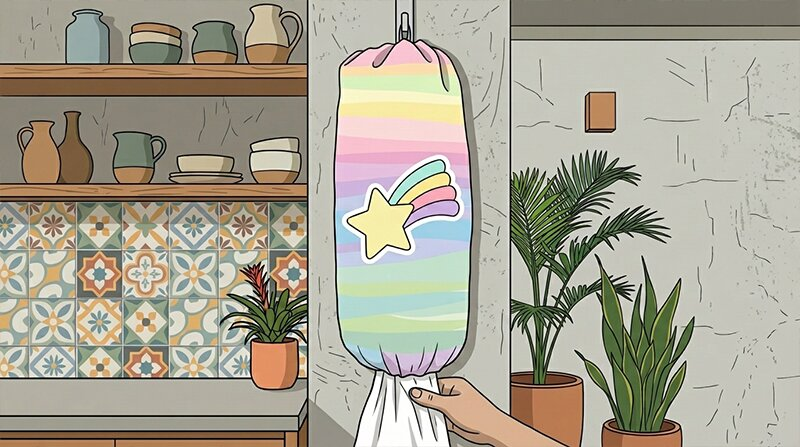
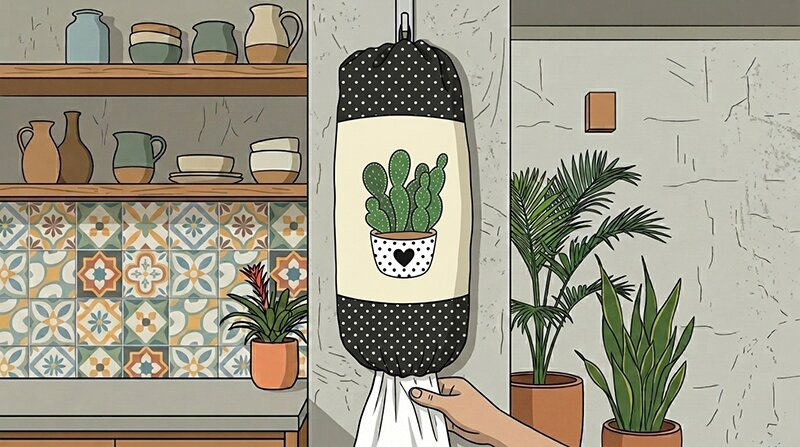
implementação da morte súbita

diff --git a/ui.js b/ui.js
@@ -29,6 +29,7 @@ class UI {
         this.humanVal = document.getElementById('human-val');
         this.botVal = document.getElementById('bot-val');
         this.deckSelect = document.getElementById('deck-select');
+        this.suddenDeathToggle = document.getElementById('sudden-death');
 
         // Join
         this.joinName = document.getElementById('join-name');
@@ -58,6 +59,8 @@ class UI {
         this.turnOverlay = document.getElementById('turn-overlay');
         this.turnOverlayText = document.getElementById('turn-overlay-text');
         this.previousTurnIndex = -1;
+        this.suddenDeathNotified = false;
+        this.showingSuddenDeath = false;
 
         this.processingRound = false;
         this.animatingCard = false;
@@ -131,7 +134,8 @@ class UI {
                 hostName: this.playerName.value.trim() || 'Você',
                 humans: h,
                 bots: b,
-                deckKey: this.deckSelect.value
+                deckKey: this.deckSelect.value,
+                suddenDeath: this.suddenDeathToggle.checked
             };
             
             if (h <= 1) {
@@ -217,6 +221,8 @@ class UI {
     showScreen(screenObj) {
         if (screenObj === this.gameScreen && this.gameScreen.classList.contains('hide')) {
             this.previousTurnIndex = -1;
+            this.suddenDeathNotified = false;
+            this.showingSuddenDeath = false;
         }
         [this.titleScreen, this.setupScreen, this.lobbyScreen, this.joinScreen, this.gameScreen, this.endScreen].forEach(s => {
             s.classList.remove('active');
@@ -331,22 +337,48 @@ class UI {
             this.currentPlayerName.textContent = p.name;
         }
 
-        if (this.previousTurnIndex !== playerIndex) {
-            this.previousTurnIndex = playerIndex;
+        let delayTurnOverlay = 0;
+        const alivePlayers = this.game.players.filter(pl => pl.deck && pl.deck.length > 0).length;
+        
+        if (this.game.suddenDeath && this.game.players.length >= 3 && alivePlayers === 2 && !this.suddenDeathNotified) {
+            this.suddenDeathNotified = true;
+            this.showingSuddenDeath = true;
             
             this.turnOverlay.classList.remove('show');
             void this.turnOverlay.offsetWidth;
             
-            if (playerIndex === myId) {
-                this.turnOverlayText.textContent = "Sua vez de jogar!";
-                this.turnOverlayText.style.color = "#4caf50";
-                this.turnOverlayText.style.textShadow = "0 0 20px #4caf50, 0 0 40px #000";
-            } else {
-                this.turnOverlayText.textContent = `${p.name} está jogando...`;
-                this.turnOverlayText.style.color = "#ff5252";
-                this.turnOverlayText.style.textShadow = "0 0 20px #ff5252, 0 0 40px #000";
-            }
+            this.turnOverlayText.textContent = "MORTE SÚBITA!";
+            this.turnOverlayText.style.color = "var(--super-trunfo-color)";
+            this.turnOverlayText.style.textShadow = "0 0 20px var(--super-trunfo-color), 0 0 40px #000";
             this.turnOverlay.classList.add('show');
+            
+            delayTurnOverlay = 2000;
+        }
+
+        if (this.previousTurnIndex !== playerIndex || delayTurnOverlay > 0) {
+            this.previousTurnIndex = playerIndex;
+            
+            setTimeout(() => {
+                this.showingSuddenDeath = false;
+                
+                this.turnOverlay.classList.remove('show');
+                void this.turnOverlay.offsetWidth;
+                
+                if (playerIndex === myId) {
+                    this.turnOverlayText.textContent = "Sua vez de jogar!";
+                    this.turnOverlayText.style.color = "#4caf50";
+                    this.turnOverlayText.style.textShadow = "0 0 20px #4caf50, 0 0 40px #000";
+                } else {
+                    this.turnOverlayText.textContent = `${p.name} está jogando...`;
+                    this.turnOverlayText.style.color = "#ff5252";
+                    this.turnOverlayText.style.textShadow = "0 0 20px #ff5252, 0 0 40px #000";
+                }
+                this.turnOverlay.classList.add('show');
+                
+                if (delayTurnOverlay > 0) {
+                    this.updateGameState();
+                }
+            }, delayTurnOverlay);
         }
 
         this.updateGameState();
@@ -372,7 +404,7 @@ class UI {
         if (!this.animatingCard) {
             this.p1CardContainer.innerHTML = '';
             if (me && me.deck && me.deck.length > 0) {
-                const isMyTurn = (this.game.currentPlayerIndex === myId && !me.isBot && this.game.turnActive);
+                const isMyTurn = (this.game.currentPlayerIndex === myId && !me.isBot && this.game.turnActive && !this.showingSuddenDeath);
                 const cardEl = this.createCardElement(me.deck[0], isMyTurn);
                 if (!isMyTurn) {
                     cardEl.classList.add('inactive-card');
@@ -492,7 +524,7 @@ class UI {
             attrs.forEach(attr => {
                 attr.addEventListener('click', (e) => {
                     const myId = this.game.isMultiplayer ? Network.playerId : 0;
-                    if (this.game.currentPlayerIndex !== myId || !this.game.isRunning || this.processingRound || !this.game.turnActive) return;
+                    if (this.game.currentPlayerIndex !== myId || !this.game.isRunning || this.processingRound || !this.game.turnActive || this.showingSuddenDeath) return;
 
                     this.processingRound = true;
                     const clickedEl = e.currentTarget;

diff --git a/game.js b/game.js
@@ -26,7 +26,8 @@ class Game {
         this.init(config.humans + config.bots, config.deckKey, {
             humans: config.humans,
             bots: config.bots,
-            names: [config.hostName]
+            names: [config.hostName],
+            suddenDeath: config.suddenDeath
         });
     }
 
@@ -45,7 +46,8 @@ class Game {
             this.init(config.totalPlayers, config.deckKey, {
                 humans: config.humans,
                 bots: config.bots,
-                names: names
+                names: names,
+                suddenDeath: config.suddenDeath
             });
         });
 
@@ -74,6 +76,8 @@ class Game {
         this.isRunning = true;
         this.activeDeck = DECKS_MANAGER[deckKey] || DECKS_MANAGER["cars"];
         this.turnActive = false;
+        this.suddenDeath = options.suddenDeath || false;
+        this.suddenDeathActivated = false;
 
         let shuffledDeck = [...this.activeDeck.cards].sort(() => Math.random() - 0.5);
 
@@ -134,6 +138,7 @@ class Game {
             this.isMultiplayer = true;
             this.isHost = false;
             this.activeDeck = DECKS_MANAGER[data.config.deckKey] || DECKS_MANAGER["cars"];
+            this.suddenDeath = data.config.suddenDeath || false;
         }
 
         this.players = state.players || [];
@@ -384,9 +389,11 @@ class Game {
         this.turnActive = false;
 
         let cardsPlayed = [];
-        this.players.forEach(p => {
+        this.players.forEach((p, idx) => {
             if (p.deck && p.deck.length > 0) {
-                cardsPlayed.push(p.deck.shift());
+                let card = p.deck.shift();
+                card._ownerId = idx;
+                cardsPlayed.push(card);
             }
         });
 
@@ -398,13 +405,45 @@ class Game {
         }
 
         setTimeout(() => {
+            let isSuddenDeathActive = (this.suddenDeath && roundData.cards.length === 2);
+
+            if (isSuddenDeathActive && !this.suddenDeathActivated) {
+                this.suddenDeathActivated = true;
+                this.log("Começou a Morte Súbita! As cartas perdedoras são eliminadas da partida!", "tie");
+            }
+
             if (roundData.isTie) {
                 this.log("Empate! As cartas vão para a mesa.", "tie");
                 this.pool.push(...cardsPlayed);
             } else {
                 let winner = this.players[roundData.winnerIndex];
-                winner.deck.push(...cardsPlayed, ...this.pool);
-                this.pool = [];
+
+                if (isSuddenDeathActive) {
+                    let winnerCards = [];
+                    let eliminatedCards = [];
+                    
+                    cardsPlayed.forEach(c => {
+                        if (c._ownerId === roundData.winnerIndex) winnerCards.push(c);
+                        else eliminatedCards.push(c);
+                    });
+                    this.pool.forEach(c => {
+                        if (c._ownerId === roundData.winnerIndex) winnerCards.push(c);
+                        else eliminatedCards.push(c);
+                    });
+                    
+                    if (eliminatedCards.length === 1) {
+                        this.log(`A carta ${eliminatedCards[0].name} foi eliminada do jogo!`, 'tie');
+                    } else if (eliminatedCards.length > 1) {
+                        this.log(`As cartas perdedoras foram eliminadas do jogo!`, 'tie');
+                    }
+                    
+                    winner.deck.push(...winnerCards);
+                    this.pool = [];
+                } else {
+                    winner.deck.push(...cardsPlayed, ...this.pool);
+                    this.pool = [];
+                }
+
                 this.currentPlayerIndex = roundData.winnerIndex;
             }
 

diff --git a/index.html b/index.html
@@ -48,6 +48,10 @@
                         <option value="template">Novo Baralho (Template)</option>
                     </select>
                 </div>
+                <div class="form-group" style="flex-direction: row; align-items: center; justify-content: space-between;">
+                    <label for="sudden-death" style="color: var(--super-trunfo-color);">Morte Súbita (1x1):</label>
+                    <input type="checkbox" id="sudden-death" style="width: 20px; height: 20px;">
+                </div>
                 <button id="btn-start-setup" class="primary-btn">CRIAR SALA/JOGAR</button>
                 <button id="btn-back-setup" class="secondary-btn" style="margin-top: 15px; width: 100%;">VOLTAR</button>
             </div>
